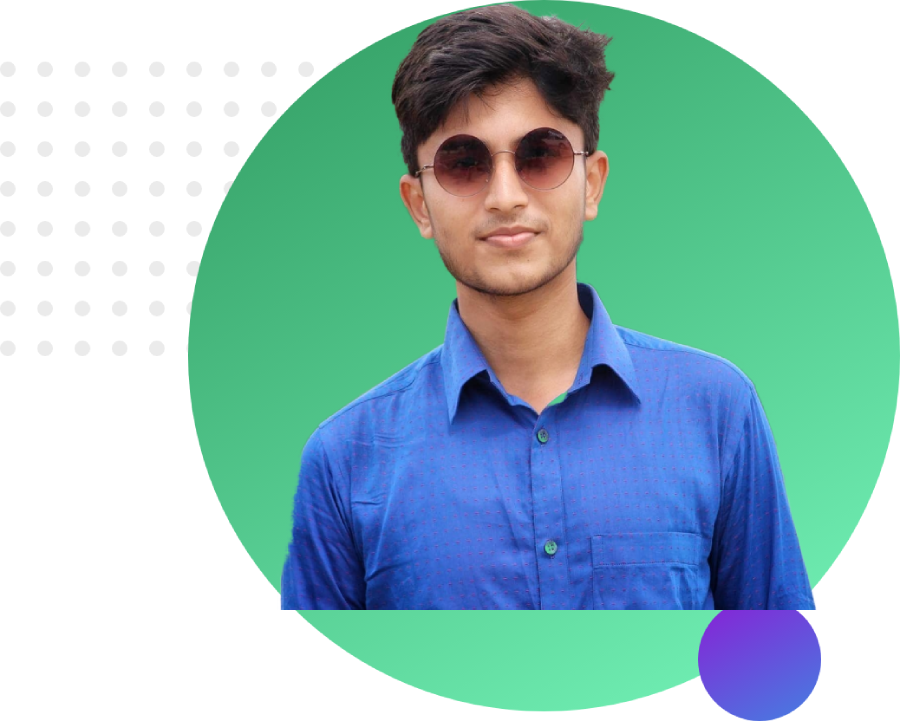
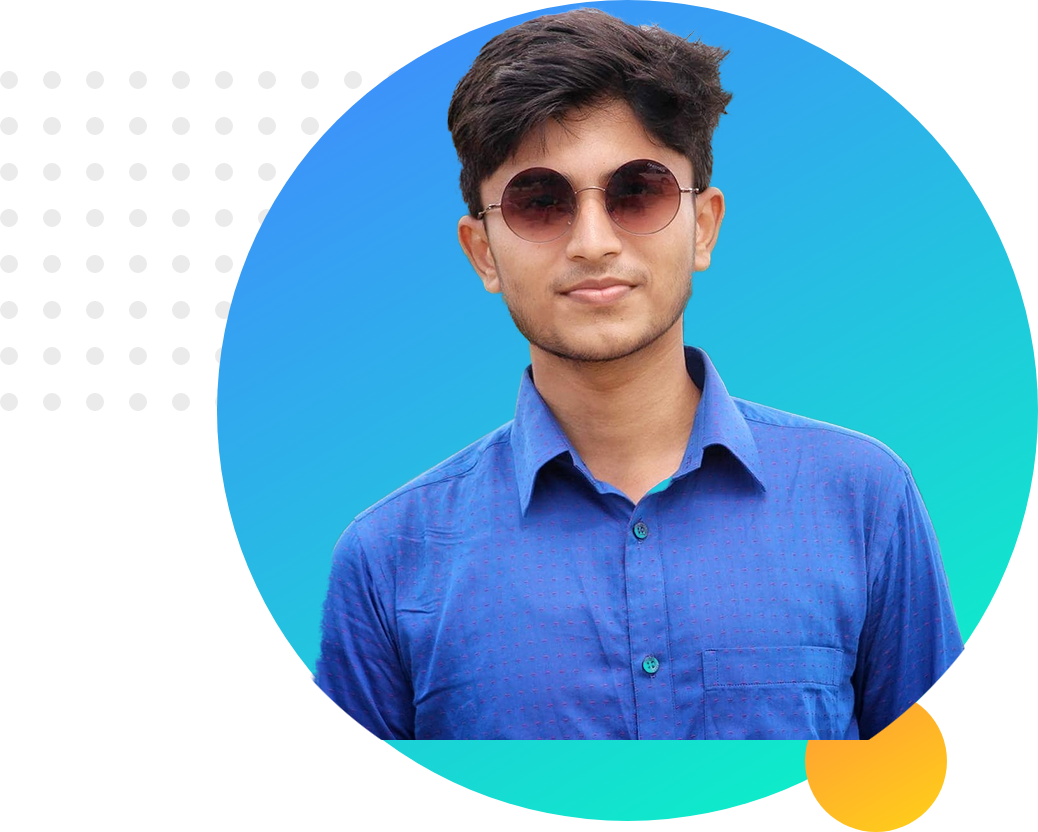
added experience area

diff --git a/index.html b/index.html
@@ -16,7 +16,7 @@
       <div class="half-width">
         <h1>Welcome to</h1>
         <h1>
-          <span class="name-highlight">Saidur</span> Rahman's Website
+          <span class="orange-highlight">Saidur</span> Rahman's Website
         </h1>
         <h3>Professional Web Developer</h3>
         <p>
@@ -29,8 +29,38 @@
       </div>
 
       <div class="half-width">
-        <img src="images/Saidur_profile.png" alt="" />
+        <img src="images/Saidur.png" alt="" />
       </div>
     </section>
+     <section class="dream-area">
+       <div class="half-width">
+        <img src="images/Saidur-D.png" alt="">
+       </div>
+       <div class="half-width">
+        <h2>Big Dream</h2>
+        <h3>Become World's No.1 Developer</h3>
+        <p>
+          I already learned the basic HTML and CSS. I can build any simple website. I can even teach my grandma how to make simple website. My goal is to build 3 websites and learn advanced topics.
+        </p>
+        <a href="https://www.facebook.com/saidurr1220/" target="_blank" class="link-button">DOWNLOAD RESUME</a>
+       </div>
+     </section> 
+     <section class="experience-area">
+       <h2>Experiences</h2>
+       <div class="half-width single-experience">
+         <h2><span class="orange-highlight">Full Stack Web Developer</span></h2>
+         <h3>2021- Present | Pro Level Developer</h3>
+         <p></p>
+         I am the master of HTML, CSS and Javascript. I know everything needed to make a website function, efficient. I didn't stop with the web. I went beyond with most popular Javascript framework called Vue JS. I even know the deployment, server and security. I will give you 100% web solution.
+
+       </div>
+       <div class="half-width single-experience">
+        <h2><span class="orange-highlight">Baby Web Developer</span></h2>
+        <h3>2020-2021 | Programming Hero Learner</h3>
+        <p>
+          They didn't offer me a job. But I made myself as a remove web developer. I made their website and showed it to them. They liked it. And uploaded the content. It was fun working at Programming Hero.
+        </p>
+      </div>
+     </section>
   </body>
 </html>

diff --git a/style.css b/style.css
@@ -4,12 +4,19 @@ body {
 }
 section{
     height: 500px;
+    padding-bottom: 150px;
 }
 h1 {
     font-size: 50px;
 }
+h2{
+    font-size: 40px;
+}
+p{
+    color: dimgray;
+}
 
-.name-highlight {
+.orange-highlight {
     color: orange;
 }
 
@@ -35,4 +42,17 @@ h1 {
     border-radius: 10px;
     color: white;
     font-weight: 700;
+}
+.dream-area{
+    background-image: url(images/dream-bg.png);
+    background-repeat: no-repeat;
+    background-position: right;
+}
+.single-experience{
+    box-shadow: 10px 10px 40px gray;
+    border-radius: 5px;
+    height: 70%;
+}
+.experience{
+    background-image: url(images/exp-bg.png);
 }
